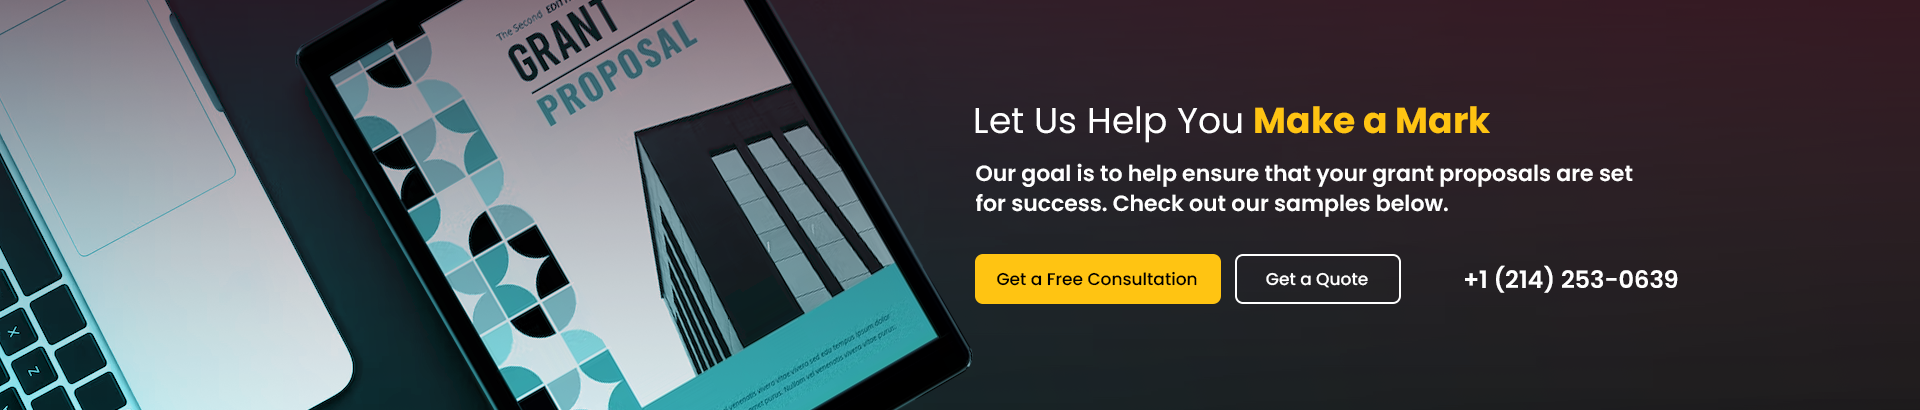
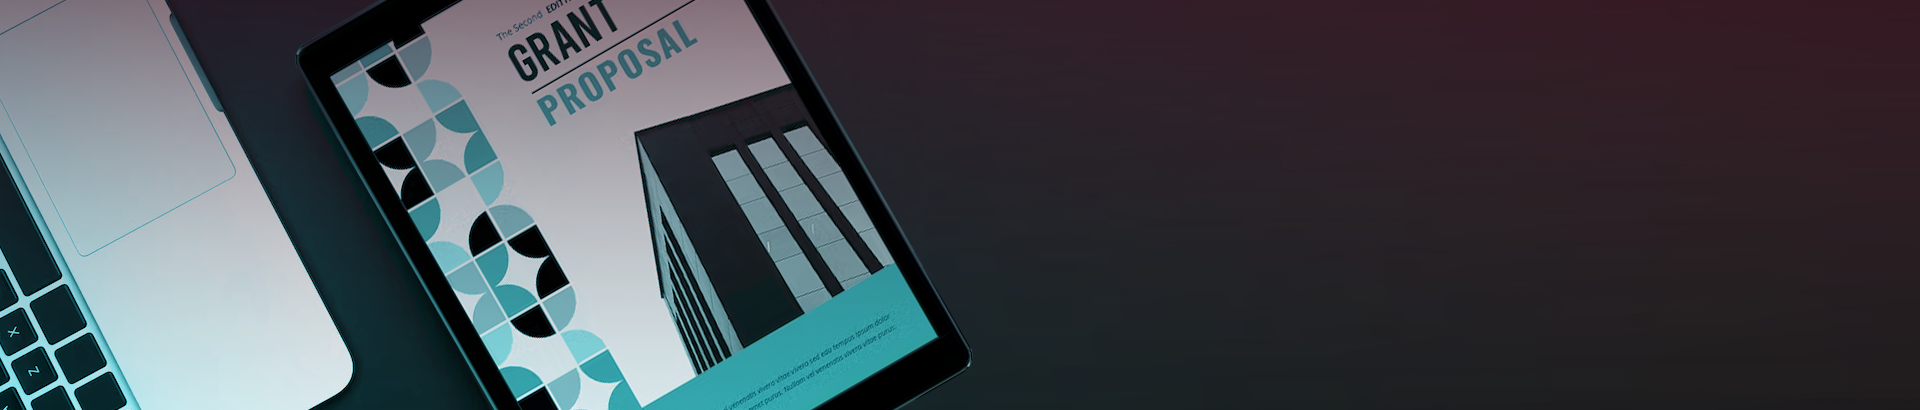
section 6 complte

diff --git a/style.css b/style.css
@@ -980,11 +980,154 @@
 /* section 6 */
 
 .c-f8{
-  height: 300px;
+  height: auto;
   background-image: url(./Assets/img/sec6-slider.png);
   background-size: cover;
   background-position: center;
-  background-position: center;
+  background-repeat: no-repeat;
+  padding-block: 60px;
+}
+.section6{
+  height: auto;
+}
+.section6A{
+  height: auto;
+  position: relative;
+}
+.section6A > h6{
+  color: var(--text-color4);
+  font-family: var(--font-family);
+  font-weight: 400 !important;
+  font-size: 1.6rem;
+}
+.section6A > h6 > span{
+  color: var(--text-color3);
+  font-weight: 600;
+}
+.section6A > p {
+  font-size: 1rem !important;
+  color: var(--text-color4);
+  font-family: var(--font-family);
+  margin-top: 15px;
+  padding-right: 60px;
+  font-weight: 500;
+}
+
+/* section 6 */
+.sec6-btn1 {
+  height: 35px;
+  width: 180px;
+  background-color: var(--text-color4);
+  border-radius: 8px;
+  color: var(--text-color2);
+  font-family: var(--font-family);
+  border: 2px solid var(--text-color3);
+  font-weight: 600;
+  font-size: 0.8rem;
+  position: relative;
+  z-index: 1; /* positive number se upler wala background piche chala jata   */
+  overflow: hidden;
+  transition: 0.4s;
+}
+.sec6-btn1::before {
+  content: "";
+  height: 100%;
+  width: 100%;
+  background-color: var(--text-color3);
+  position: absolute;
+  top: 0;
+  left: 0;
+  z-index: -1;
+  transform: translateX(-50%);
+  transition: 0.6s;
+}
+.sec6-btn1:hover::before {
+  transform: translateX(-100%);
+}
+
+/* after bad me */
+.sec6-btn1::after {
+  content: "";
+  height: 100%;
+  width: 100%;
+  background-color: var(--text-color3);
+  position: absolute;
+  top: 0;
+  left: 0;
+  z-index: -1;
+  transform: translateX(50%);
+  transition: 0.6s;
+}
+.sec6-btn1:hover::after {
+  transform: translateX(100%);
+}
+.sec6-btn1:hover {
+  color: var(--text-color3);
+  border-color: var(--text-color3);
+  cursor: pointer;
+}
+/* before & after for button 2 */
+.sec6-btn2 {
+  height: 35px;
+  width: 140px;
+  background-color: transparent;
+  border-radius: 8px;
+  color: var(--text-color4);
+  font-family: var(--font-family);
+  border: 2px solid var(--text-color4);
+  font-size: 0.9rem;
+  position: relative;
+  overflow: hidden;
+  z-index: 1;
+  font-weight: 500;
+  transition: 0.4s;
+}
+.sec6-btn2::before {
+  content: "";
+  height: 100%;
+  width: 50%;
+  background-color: var(--text-color1);
+  position: absolute;
+  top: 0;
+  left: 0;
+  z-index: -1;
+  transform: translateX(-100%);
+  transition: 0.6s;
+}
+.sec6-btn2:hover::before {
+  transform: translateX(0%) rotate(180deg);
+}
+
+/* after bad me */
+.sec6-btn2::after {
+  content: "";
+  height: 100%;
+  width: 50%;
+  background-color: var(--text-color1);
+  position: absolute;
+  top: 0;
+  right: 0;
+  z-index: -1;
+  transform: translateX(100%);
+  transition: 0.6s;
+}
+.sec6-btn2:hover::after {
+  transform: translateX(0%) rotate(-180deg);
+}
+.sec6-btn2:hover {
+  color: var(--text-color4);
+  border-color: var(--text-color4);
+  cursor: pointer;
+}
+.sec6-img{
+  height: 60px;
+  width: 180px;
+  position: absolute;
+  top: 110px;
+  right: 30px;
+}
+.sec6-img > img{
+  height: 75%;
 }
 
 /* 

diff --git a/index.html b/index.html
@@ -293,7 +293,22 @@
   <!-- section 6  -->
 
   <div class="container-fluid c-f8">
-    
+    <div class="container section6">
+      <div class="row">
+        <div class="col-lg-6 section6A"></div>
+        <div class="col-lg-6 section6A">
+           <h6>Let Us Help You <span>Make a Mark</span></h6>
+           <p>Our goal is to help ensure that your grant proposals are set
+            for success. Check out our samples below.</p>
+            <button class="sec6-btn1 mt-2">Get a Free Consultation</button
+              >&nbsp;&nbsp;
+              <button class="sec6-btn2 mt-2">Get a Quote</button>
+              <div class="sec6-img">
+                <img src="./Assets/img/section2-img2.png" alt="sec2-image1" />
+              </div>
+        </div>
+      </div>
+    </div>
   </div>
 
     <script src="https://cdn.jsdelivr.net/npm/bootstrap@4.4.1/dist/js/bootstrap.min.js"></script>
